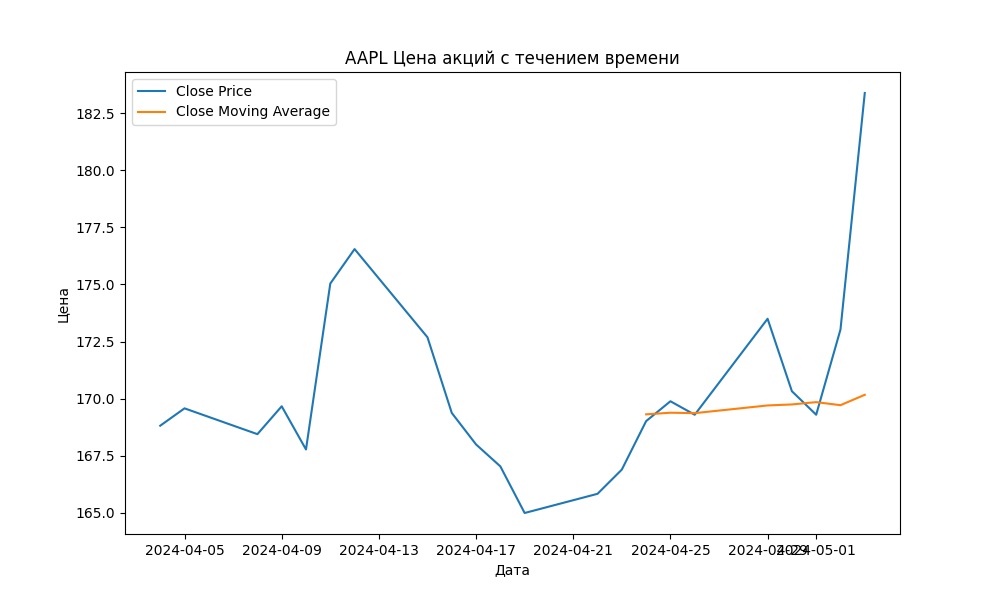
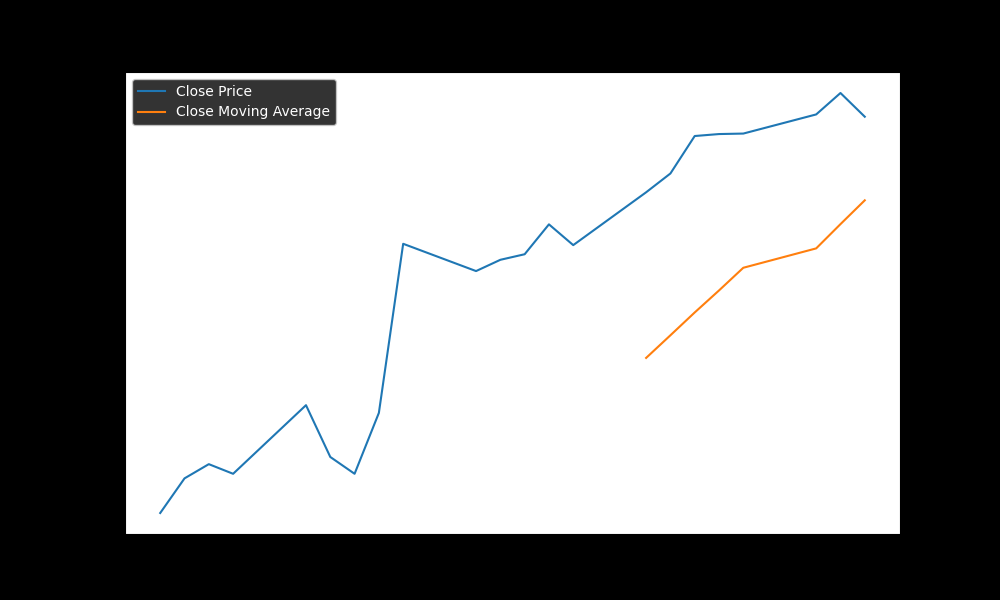
style first

diff --git a/data_plotting.py b/data_plotting.py
@@ -5,7 +5,7 @@ import datetime
 import logging
 
 # Создание графика по ценам закрытия и скользящей средней цены закрытия
-def create_and_save_plot(data, ticker, period, filename=None):
+def create_and_save_plot(data, ticker, period, style='classic', filename=None):
     # Улучшенное управление временными периодами. Форматирование строки "period" для отображения в названии файла
     if len(period) > 3:
         name_file_with_spaces = period.split(',')
@@ -23,6 +23,7 @@ def create_and_save_plot(data, ticker, period, filename=None):
             dates = data.index.to_numpy()
             plt.plot(dates, data['Close'].values, label='Close Price')
             plt.plot(dates, data['Moving_Average'].values, label='Close Moving Average')
+            plt.style.use(style)  # применяем выбранный стиль
         else:
             print("Информация о дате отсутствует или не имеет распознаваемого формата.")
             logging.info(f'Информация о дате отсутствует или не имеет распознаваемого формата.')
@@ -32,6 +33,7 @@ def create_and_save_plot(data, ticker, period, filename=None):
             data['Date'] = pd.to_datetime(data['Date'])
         plt.plot(data['Date'], data['Close'], label='Close Price')
         plt.plot(data['Date'], data['Moving_Average'], label='Close Moving Average')
+        plt.style.use(style)  # применяем выбранный стиль
 
     plt.title(f"{ticker} Цена акций с течением времени")
     plt.xlabel("Дата")

diff --git a/main.py b/main.py
@@ -62,7 +62,7 @@ def main():
 
 
     # Построение данных
-    dplt.create_and_save_plot(stock_data, ticker, period)
+    dplt.create_and_save_plot(stock_data, ticker, period, style='dark_background')
 
 
 if __name__ == "__main__":
